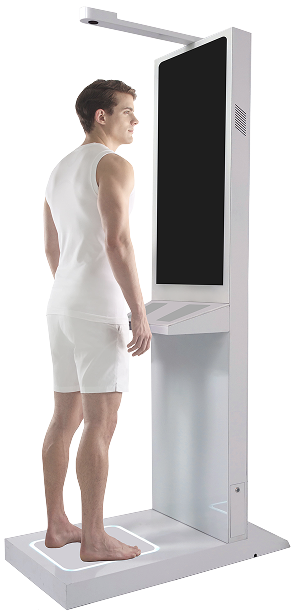
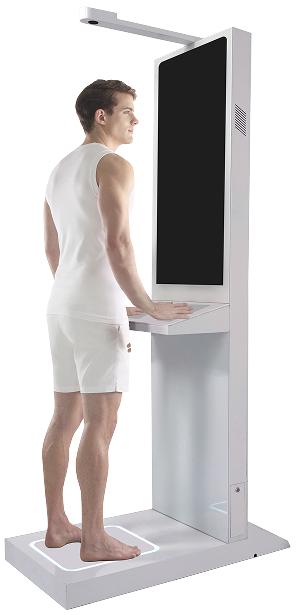
commit

Changed region(s): [[0.39, 0.4325, 0.66, 0.587]]

diff --git a/src/pages/body/ui/body-page.ui.tsx b/src/pages/body/ui/body-page.ui.tsx
@@ -22,22 +22,16 @@ export const BodyPage = () => {
 					В начало
 				</Button>
 			</PageHead>
-			<Steps current={4} />
+			<Steps current={2} />
 			<TitleBlock
 				className={css['title']}
-				title="Измерение состава тела и обмена веществ"
-				label={
-					<span>
-						Мы используем метод биоимпедансного анализа. Это совершенно безопасно.
-						<br />
-						Положите ладони на электроды, как показано на рисунке:
-					</span>
-				}
+				title="Анализ тела"
+				label="Встаньте на весы, положите руки на электроды, как показано на рисунке"
 			/>
 			<figure className={css['img']}>
 				<img src={patient.sex === Sex.man ? man : woman} alt="patient" />
 			</figure>
-			<Measure action={startMeasure} nextStep={path.finish()} />
+			<Measure action={startMeasure} nextStep={path.cardio()} />
 		</Container>
 	);
 };

diff --git a/src/entities/patient/patient-data/ui/patient-model.ui.tsx b/src/entities/patient/patient-data/ui/patient-model.ui.tsx
@@ -1,3 +1,4 @@
+import css from './patient-model.module.scss';
 import { Model3d } from 'shared/ui/components';
 import { MODELS_URLS, Sex } from 'shared/api/patient';
 
@@ -10,5 +11,16 @@ interface PatientModelProps {
 }
 
 export const PatientModel = ({ sex = Sex.man, model = 'model', colors = '' }: PatientModelProps) => {
-	return <Model3d url={MODELS_URLS[sex][model] + colors} />;
+	return (
+		<div className={css['model']}>
+			{/* <div className={css['title']}>
+				<p className={css['text']}>Ваш идентификатор для будущих обследований:</p>
+				<p className={css['code']}>А123456</p>
+				<p className={css['text']}>Запомните или запишите его у себя</p>
+			</div> */}
+			<div className={css['frame']}>
+				<iframe src={MODELS_URLS[sex][model] + colors} width="100%" height="660px"></iframe>
+			</div>
+		</div>
+	);
 };

diff --git a/src/shared/ui/components/model-3d/model-3d.ui.tsx b/src/shared/ui/components/model-3d/model-3d.ui.tsx
@@ -5,14 +5,14 @@ import model from 'shared/assets/img/model.png';
 export const Model3d = ({ url }: { url: string }) => {
 	return (
 		<div className={css['model']}>
-			<div className={css['title']}>
+			{/* <div className={css['title']}>
 				<p className={css['text']}>Ваш идентификатор для будущих обследований:</p>
 				<p className={css['code']}>А123456</p>
 				<p className={css['text']}>Запомните или запишите его у себя</p>
-			</div>
+			</div> */}
 			<div className={css['frame']}>
 				{/* <Scene /> */}
-				<iframe src={url} width="100%" height="553px"></iframe>
+				<iframe src={url} width="100%" height="660px"></iframe>
 			</div>
 		</div>
 	);

diff --git a/src/pages/finish/ui/finish-page.ui.tsx b/src/pages/finish/ui/finish-page.ui.tsx
@@ -20,12 +20,12 @@ export const FinishPage = () => {
 					В начало
 				</Button>
 			</PageHead>
-			<Steps current={5} />
+			<Steps current={4} />
 			{loading ? (
 				<>
 					<TitleBlock
 						className={css['title']}
-						title="Обследование завершено"
+						title="Исследование завершено"
 						label={
 							<span>
 								Поздравляем! Вы заботитесь о своём здоровье - Вы великолепны.

diff --git a/src/shared/ui/components/steps/steps.module.scss b/src/shared/ui/components/steps/steps.module.scss
@@ -1,8 +1,8 @@
 .steps {
 	display: grid;
-	grid-template-columns: repeat(5, 1fr);
+	grid-template-columns: repeat(4, 1fr);
 	gap: rem(33);
-	margin: 0 rem(-40) rem(80);
+	margin: 0px 0px rem(80) 0px;
 }
 
 .step {
@@ -40,7 +40,7 @@
 		position: absolute;
 		top: rem(45);
 		left: calc(100% + rem(15));
-		width: rem(85);
+		width: rem(117);
 		height: rem(1);
 		background: $color-second;
 	}
@@ -48,4 +48,5 @@
 
 .label {
 	font-size: rem(20);
+	max-width: rem(170);
 }

diff --git a/src/shared/ui/components/steps/steps.ui.tsx b/src/shared/ui/components/steps/steps.ui.tsx
@@ -3,9 +3,8 @@ import cn from 'classnames';
 
 const steps: string[] = [
 	'Данные пациента',
-	'Рост и вес',
-	'Сердечно-сосудистая система',
 	'Состав тела и обмен веществ',
+	'Сердечно-сосудистая система',
 	'Результаты',
 ];
 

diff --git a/src/pages/cardio/ui/cardio-page.ui.tsx b/src/pages/cardio/ui/cardio-page.ui.tsx
@@ -32,7 +32,7 @@ export const CardioPage = () => {
 					<img className={css['img']} src={img2} alt="image2" />
 				</div>
 			</div>
-			<Measure action={startMeasure} nextStep={path.body()} />
+			<Measure action={startMeasure} nextStep={path.finish()} />
 		</Container>
 	);
 };

diff --git a/src/pages/results/ui/results-page.ui.tsx b/src/pages/results/ui/results-page.ui.tsx
@@ -15,7 +15,7 @@ export const ResultsPage = () => {
 					Завершить исследование
 				</Button>
 			</PageHead>
-			<Steps current={5} />
+			<Steps current={4} />
 			<Tabs active={1}>
 				<div className={css['results']}>
 					<TabsContainer index={1}>

diff --git a/src/features/patient/patient-form/patient-form.ui.tsx b/src/features/patient/patient-form/patient-form.ui.tsx
@@ -40,7 +40,7 @@ export const PatientForm = () => {
 
 		// showToast({ message: 'Вы успешно зарегистрировались', type: 'success' });
 
-		navigate(path.measure());
+		navigate(path.body());
 	};
 
 	const changeHandler = () => {

diff --git a/src/entities/patient/patient-data/ui/patient-model.module.scss b/src/entities/patient/patient-data/ui/patient-model.module.scss
@@ -1,0 +1,21 @@
+.model {
+}
+
+.title {
+	margin: 0px 0px rem(20) 0px;
+}
+
+.text {
+	font-size: rem(20);
+}
+
+.code {
+	font-weight: 700;
+	font-size: rem(24);
+}
+
+.frame {
+	display: flex;
+	justify-content: center;
+	align-items: center;
+}

diff --git a/src/shared/ui/components/layout-wrapper/layout-wrapper.module.scss b/src/shared/ui/components/layout-wrapper/layout-wrapper.module.scss
@@ -2,7 +2,7 @@
 	display: grid;
 	grid-template-rows: auto 1fr;
 	width: 100%;
-	// min-height: 100vh;
 	overflow: hidden;
-	height: rem(1920);
+	min-height: rem(1920);
+	height: 100vh;
 }

diff --git a/src/pages/body/ui/body-page.module.scss b/src/pages/body/ui/body-page.module.scss
@@ -4,7 +4,5 @@
 
 .img {
 	text-align: center;
-	img {
-		max-height: rem(590);
-	}
+	margin: 0px 0px rem(40) 0px;
 }
